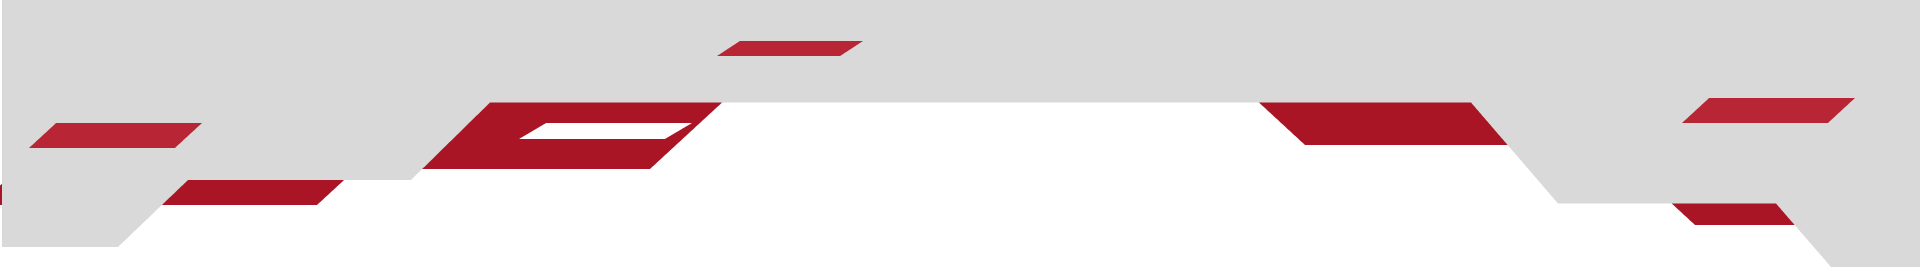
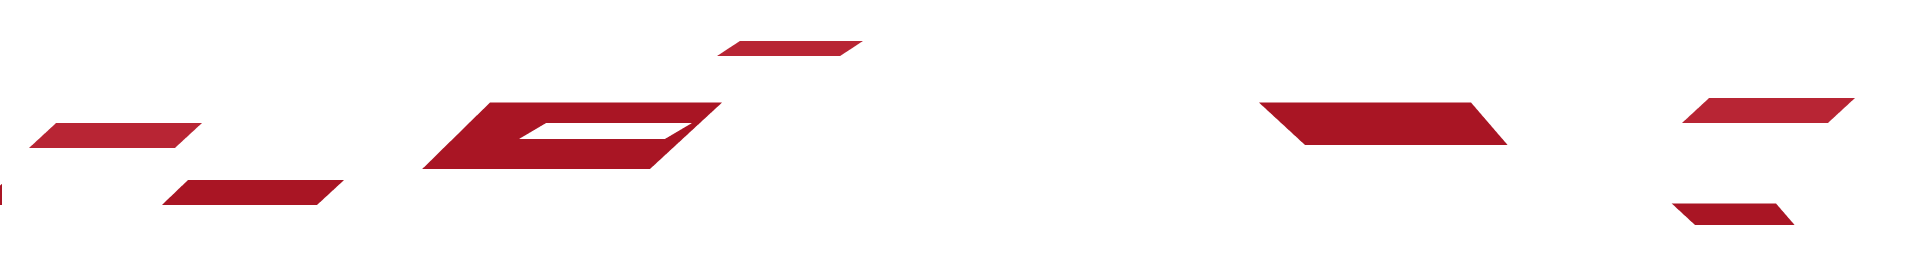
done aamiin

diff --git a/src/components/Navbar.js b/src/components/Navbar.js
@@ -1,35 +1,91 @@
 import React from 'react'
+import { useState } from 'react'
+import { useEffect } from 'react'
 import { Link, useLocation } from 'react-router-dom'
 
 import logoNL from '../images/Logo_NL.svg'
-import titleNL from '../images/Title_NL.svg'
+
+let navColor, textColor
 
 export default function Navbar() {
   const location = useLocation()
+  const [hash, setHash] = useState('')
+
+  switch (location.pathname) {
+    case '/nddc':
+      navColor = 'bg-[#FF7950]'
+      textColor = 'text-white'
+      break
+    case '/nadc':
+      navColor = 'bg-[#2B3E4D]'
+      textColor = 'text-white'
+      break
+    case '/nuxc':
+      navColor = 'bg-[#F16437]'
+      textColor = 'text-white'
+      break
+    case '/nwdc':
+      navColor = 'bg-[#55B3E6]'
+      textColor = 'text-white'
+      break
+    case '/nlnc':
+      navColor = 'bg-[#676858]'
+      textColor = 'text-white'
+      break
+    case '/ncpc':
+      navColor = 'bg-[#3BC566]'
+      textColor = 'text-white'
+      break
+    default:
+      navColor = 'bg-white'
+      textColor = 'text-black'
+      break
+  }
+
+  useEffect(() => {
+    setHash(location.hash)
+     if (document.querySelector('.active-nav') !== null) {
+       document.querySelector('.active-nav').classList.remove('active-nav')
+     }
+  }, [location.hash])
+
+ 
+
+  switch (hash) {
+    case '#benefits':
+      document.querySelector('.benefit').classList.add('active-nav')
+      break
+    case '#what-we-do':
+      document.querySelector('.wwd').classList.add('active-nav')
+      break
+    case '#community':
+      document.querySelector('.comm').classList.add('active-nav')
+      break
+    default:
+      break
+  }
 
   return (
-    <header className="flex justify-end items-center fixed top-0 right-0 left-0 bg-white z-20 font-semibold px-5 py-3">
+    <header
+      className={`flex justify-end items-center ${navColor} fixed top-0 right-0 left-0 z-20 font-semibold px-5 py-3`}
+    >
       <Link
         to="/"
         onClick={() => window.scrollTo(0, 0)}
         className="h-10 flex items-center gap-x-5 mr-auto"
       >
         <img src={logoNL} className="h-full" alt="night login logo" />
-        <img
-          src={titleNL}
-          className="h-[60%] w-[60%] sm:h-[80%] sm:w-[80%]"
-          alt="night login custom font"
-        />
+        <p className={`${textColor} text-xl`}>Night Login</p>
       </Link>
       {location.pathname === '/' && (
         <nav className="hidden sm:flex gap-x-10">
-          <a href="#community">
+          <a href="#community" className="comm">
             <p>Community</p>
           </a>
-          <a href="#what-we-do">
+          <a href="#what-we-do" className="wwd">
             <p>What We Do</p>
           </a>
-          <a href="#benefits">
+          <a href="#benefits" className="benefit">
             <p>Benefits</p>
           </a>
         </nav>

diff --git a/src/components/WhatWeDo.js b/src/components/WhatWeDo.js
@@ -1,9 +1,10 @@
 import React from 'react'
 import { Swiper, SwiperSlide } from 'swiper/react'
-import { Navigation, Keyboard } from 'swiper'
+import { Navigation, Keyboard, Autoplay } from 'swiper'
 
 import 'swiper/css'
 import 'swiper/css/navigation'
+// import 'swiper/css/autoplay'
 import { Link } from 'react-router-dom'
 
 const buttonStyle =
@@ -26,20 +27,20 @@ const whatWeDo = [
 export default function WhatWeDo() {
   return (
     <div id="what-we-do">
-      <div className="bg-separator-wwd w-screen h-[100px] mt-2"></div>
-      <div className="pt-10 pb-16 md:pt-36 md:pb-48 ">
+      <div className="pt-10 pb-16 md:pt-36 md:pb-48 bg-[#B82534]">
         <div className="w-fit mx-auto">
-          <h2 className="text-center text-[#B82534] text-4xl sm:text-5xl xl:text-6xl font-semibold">
+          <h2 className="text-center text-white text-4xl sm:text-5xl xl:text-6xl font-semibold">
             What We Do?
           </h2>
-          <div className="mx-auto mt-3 bg-[#B82534] rounded-lg h-2 w-[50%]"></div>
+          <div className="mx-auto mt-3 bg-white rounded-lg h-2 w-[50%]"></div>
         </div>
         <div className="pt-10 pl-2 pr-7 lg:px-0">
           <Swiper
-            modules={[Navigation, Keyboard]}
+            modules={[Navigation, Keyboard, Autoplay]}
             keyboard={{ enabled: true }}
+            // autoplay={true}
             navigation
-            className="h-100 max-w-[730px] shadow-slider  border-4 border-black "
+            className="h-100 max-w-[730px] shadow-slider  border-4 border-black bg-white"
           >
             {whatWeDo.map((event) => {
               const { name, desc } = event
@@ -65,7 +66,6 @@ export default function WhatWeDo() {
           </Swiper>
         </div>
       </div>
-      <div className="bg-separator-wwd w-screen h-[100px] mt-2"></div>
     </div>
   )
 }

diff --git a/src/components/Detail.js b/src/components/Detail.js
@@ -2,21 +2,21 @@ import React from 'react'
 
 export default function Detail({ title, desc, img, color }) {
   return (
-    <div className="flex flex-col md:flex-row items-center md:justify-center md:gap-x-20 gap-y-10 py-32 px-5 sm:px-10 ">
-      <img src={img} alt={img} className="min-w-[250px] max-w-[300px]" />
+    <div className="flex flex-col md:flex-row items-center md:justify-center md:gap-x-20 gap-y-10 pt-32 pb-16 md:pt-44 md:pb-28 lg:pt-52 lg:pb-36 px-5 sm:px-10 ">
+      <img src={img} alt={img} className="min-w-[250px] max-w-[300px] md:max-w-[500px]" />
       <div className="content max-w-[430px] md:max-w-[700px] ">
         <div
           className={`text-center md:text-left`}
           style={{ color: `${color}` }}
         >
           <p className="text-xl sm:text-2xl font-semibold">Night Login</p>
-          <h2 className="text-2xl sm:text-3xl md:text-4xl font-bold my-[-5px]">
+          <h2 className="text-2xl sm:text-3xl md:text-4xl font-bold my-[5px]">
             {title}
           </h2>
           <p className="text-lg sm:text-xl font-semibold">Community</p>
         </div>
         <div className="body mt-7">
-          <p className="text-xl sm:text-2xl text-center md:text-left">{desc}</p>
+          <p className="text-xl sm:text-2xl md:text-3xl text-center md:text-left">{desc}</p>
         </div>
       </div>
     </div>

diff --git a/src/index.css b/src/index.css
@@ -33,18 +33,13 @@ code {
 
 .bg-gradient-mtt {
   background-image: linear-gradient(
-      90.06deg,
+      90deg,
       rgba(184, 37, 52, 0.9) 0.06%,
       rgba(184, 37, 52, 0.33) 100%,
-      rgba(255, 255, 255, 0) 100%
+      rgba(0, 0, 0, 0) 100%
     ),
     url(./images/meet-the-team.webp);
   background-repeat: no-repeat;
-}
-
-.bg-separator-wwd {
-  background-image: url('./images/separatorWWD.png');
-  background-repeat: repeat;
 }
 
 .header-findit {
@@ -79,11 +74,15 @@ code {
 }
 
 .shadow-slider {
-  box-shadow: 10px 10px #404143, 20px 20px #b82534;
+  box-shadow: 10px 10px #404143, 20px 20px #ffffff;
 }
 
 .shadow-community {
   box-shadow: 7px 7px rgba(184, 37, 52, 1);
+}
+
+.active-nav {
+  border-bottom: 2px solid #b82534;
 }
 
 .swiper-button-next,

diff --git a/src/components/Benefits.js b/src/components/Benefits.js
@@ -39,7 +39,10 @@ export default function Benefits() {
         <div className="pt-10 md:pt-20 px-5 mx-auto flex flex-col gap-y-10 sm:grid sm:grid-cols-2 xl:flex xl:flex-row xl:max-w-[1280px] xl:gap-x-10">
           {benefits.map((benefit) => {
             return (
-              <div className="w-[90%] p-5 bg-white shadow-xl rounded-lg mx-auto flex flex-col items-center gap-y-5">
+              <div
+                className="w-[90%] p-5 bg-white rounded-lg mx-auto flex flex-col items-center gap-y-5"
+                key={benefit.name}
+              >
                 <img
                   src={benefit.img}
                   alt={benefit.name}

diff --git a/src/components/FindIT.js b/src/components/FindIT.js
@@ -14,7 +14,7 @@ export default function FindIT() {
     'w-fit px-5 py-2 sm:px-10 sm:py-5 rounded-full bg-white text-[#B82534] font-semibold text-center text-xl sm:text-3xl mx-auto hover:text-white hover:bg-red-800'
 
   return (
-    <div className="bg-[#b82534] pt-16">
+    <div className="bg-[#b82534] pt-12">
       <img src={header} alt="separate" className="100vw hidden sm:block" />
       <div className="header-findit h-24 sm:hidden"></div>
       <div className="px-10 md:px-20 pt-20 pb-10 gap-y-20 md:pt-40 md:gap-y-28 text-white mx-auto max-w-[1280px] flex flex-col font-semibold text-2xl md:text-3xl lg:text-4xl">

diff --git a/src/components/Showcase.js b/src/components/Showcase.js
@@ -14,7 +14,7 @@ export default function Showcase({ color }) {
       style={{ backgroundColor: `${color}` }}
     >
       <div className="w-fit mx-auto mb-10">
-        <h2 className="text-center text-white text-4xl sm:text-5xl xl:text-6xl font-semibold">
+        <h2 className="text-center px-5 text-white text-4xl sm:text-5xl xl:text-6xl font-semibold">
           Showcase Project
         </h2>
       </div>
